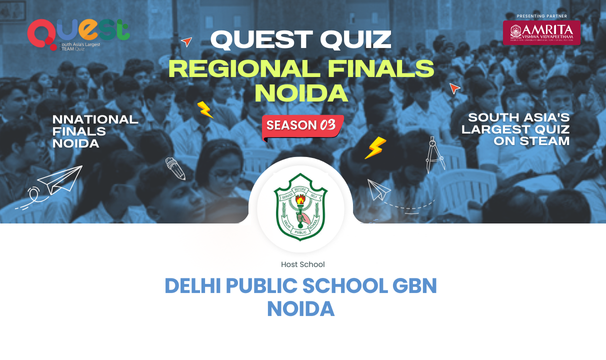
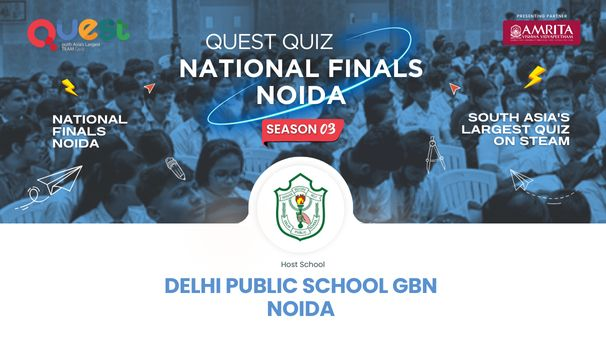
Mains Pages and Coupon

diff --git a/host_schools.php b/host_schools.php
@@ -476,7 +476,7 @@
                 </div>
                 
                 <!-- Noida -->
-                <div class="card city-card h-100">
+                <!-- <div class="card city-card h-100">
                     <img src="city/noida.png" class="card-img-top" alt="Noida">
                     <div class="card-body">
                         <h5 class="card-title">Noida</h5>
@@ -487,7 +487,7 @@
                             <div class="venue-name">Delhi Public School, GBN</div>
                         </div>
                     </div>
-                </div>
+                </div> -->
                 
                 <!-- Ghaziabad -->
                 <div class="card city-card h-100">
@@ -550,7 +550,7 @@
                 <div class="card-body p-5">
                     <div class="row align-items-center">
                         <div class="col-lg-4 col-md-5 mb-4 mb-md-0">
-                            <img src="city/delhi.png" class="img-fluid rounded" alt="National Finals">
+                            <img src="city/noida.png" class="img-fluid rounded" alt="National Finals">
                         </div>
                         <div class="col-lg-8 col-md-7">
                             <div class="finals-badge">
@@ -571,7 +571,7 @@
                                         <div class="finals-label">
                                             <i class="fas fa-map-marker-alt"></i> Venue
                                         </div>
-                                        <p class="finals-value">DPS GBN</p>
+                                        <p class="finals-value">Delhi Public School, GBN</p>
                                     </div>
                                 </div>
                                 <div class="col-12 mt-4">
